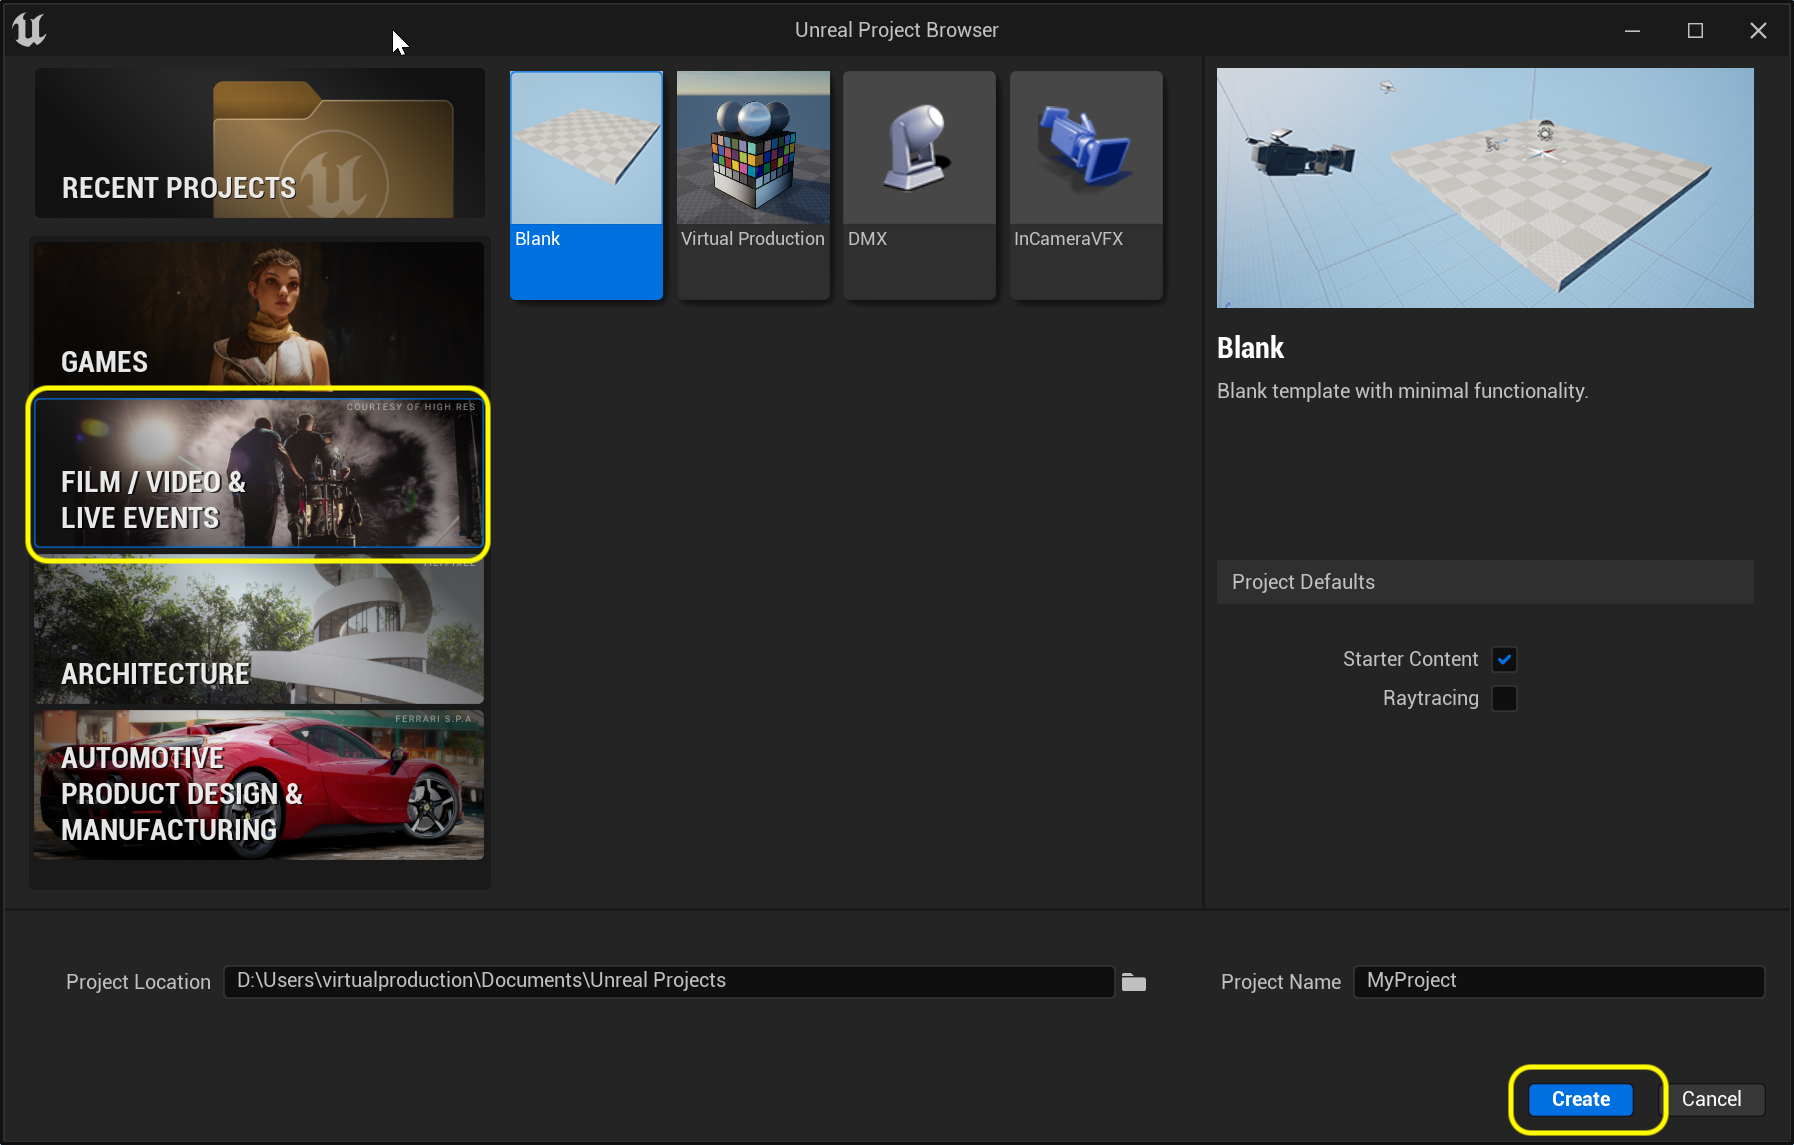
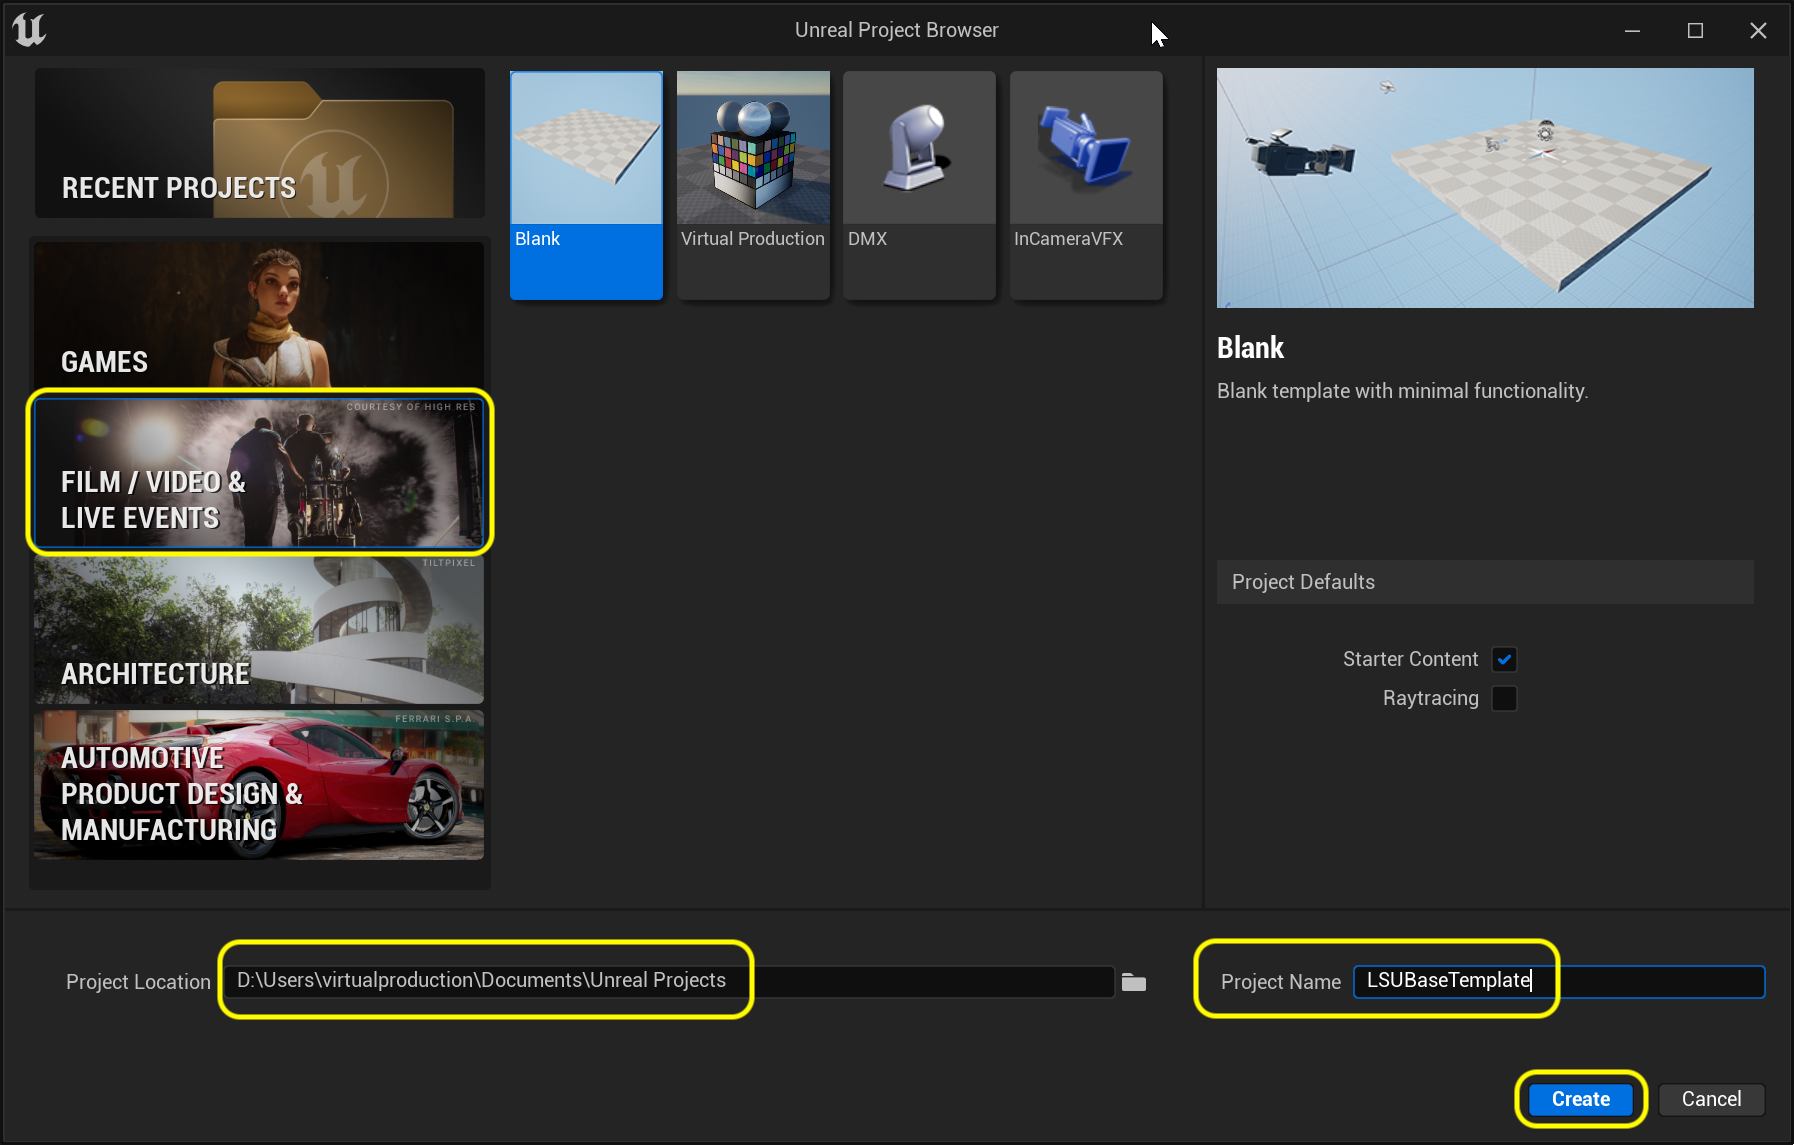
adding ue5 led wall walk through

diff --git a/unreal5-base-setup/README.md b/unreal5-base-setup/README.md
@@ -15,7 +15,7 @@ How to create an Unreal project from scratch in Unreal 5.0.X for an in-camera vi
 
 ##### `Step 1.`\|`BTS`|:small_blue_diamond:
 
-Run the **Epic Games Launcher** and run the latest version of Unreal. Selet the **Film / Video & Live Events** project category.  Press the <kbd>Next</kbd> button. Select a **Blank** template. Press the <kbd>Create</kbd> button.
+Run the **Epic Games Launcher** and run the latest version of Unreal. Selet the **Film / Video & Live Events** project category.  Press the <kbd>Next</kbd> button. Select a **Blank** template. Select a directory to save the project to and give the project a name.  Press the <kbd>Create</kbd> button. 
 
 ![start game launger and create blank film template](images/SelectNewProject.png)
 
